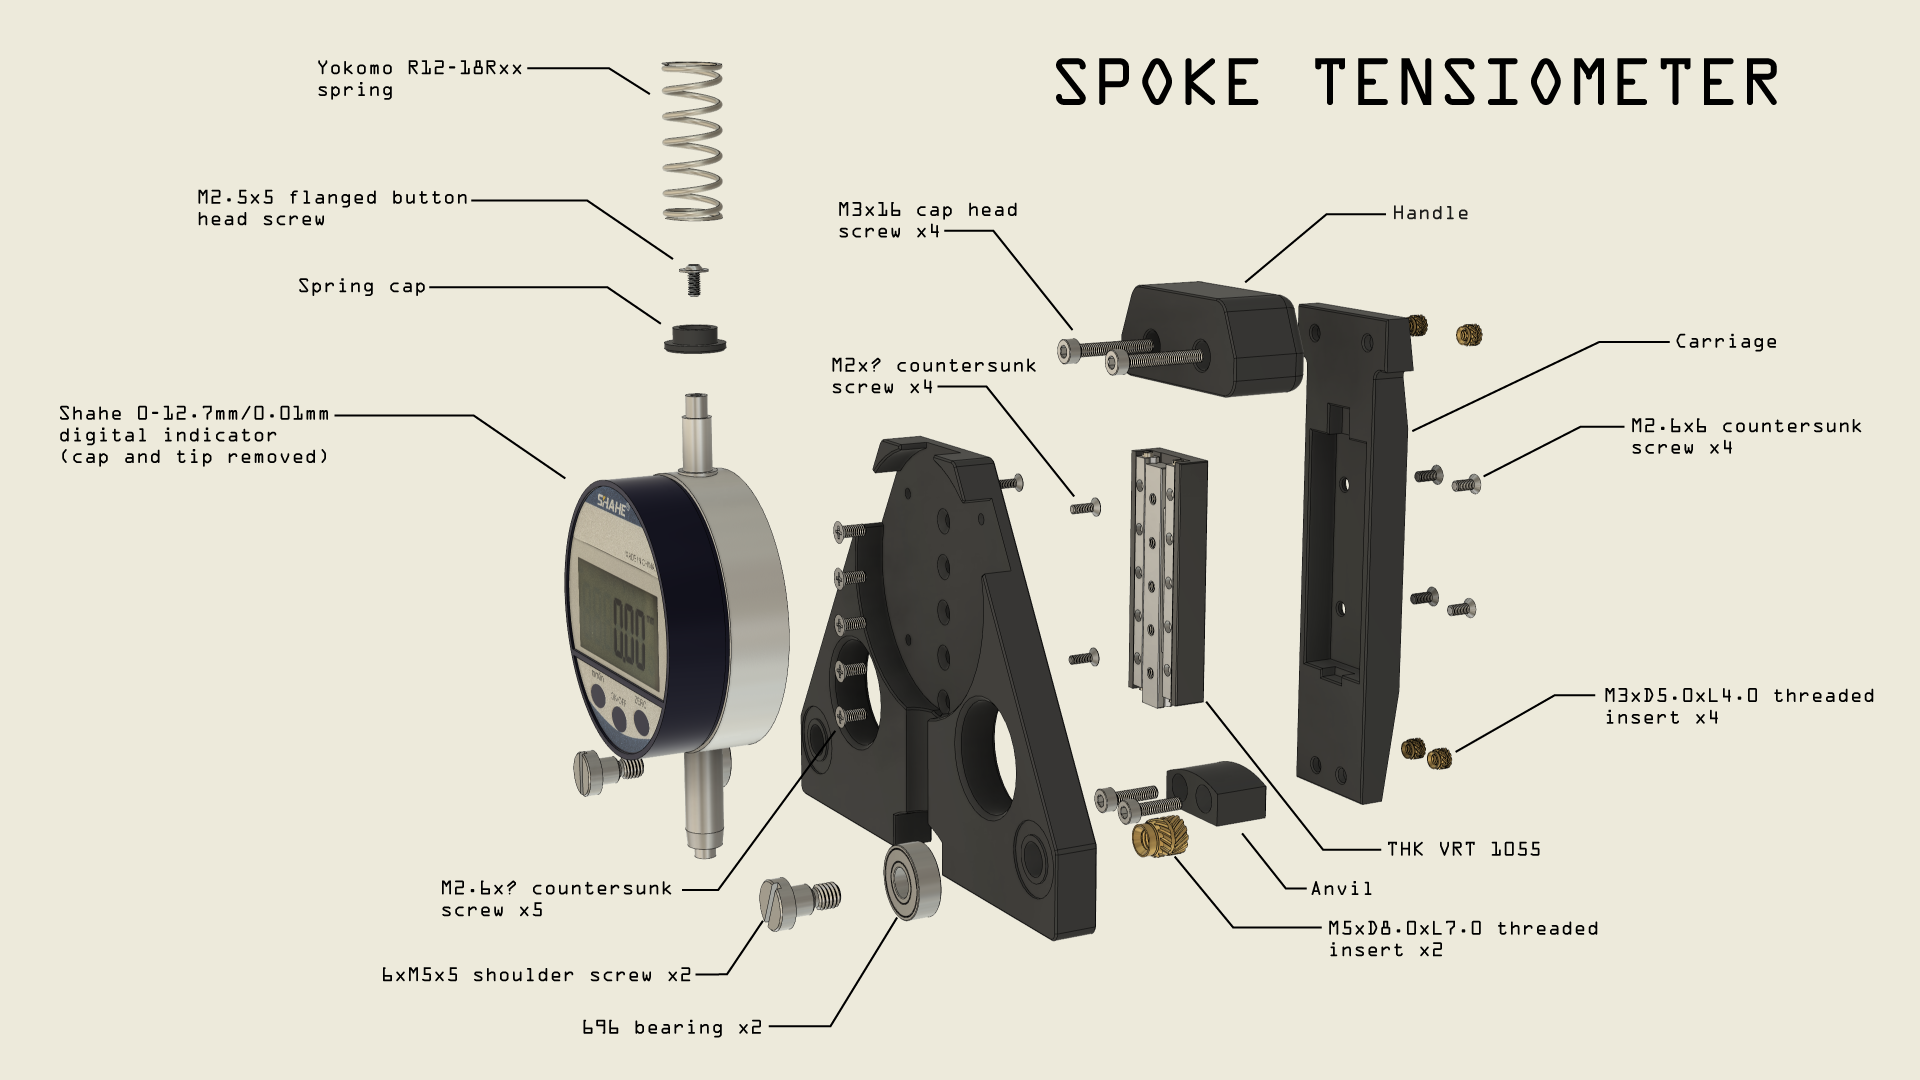
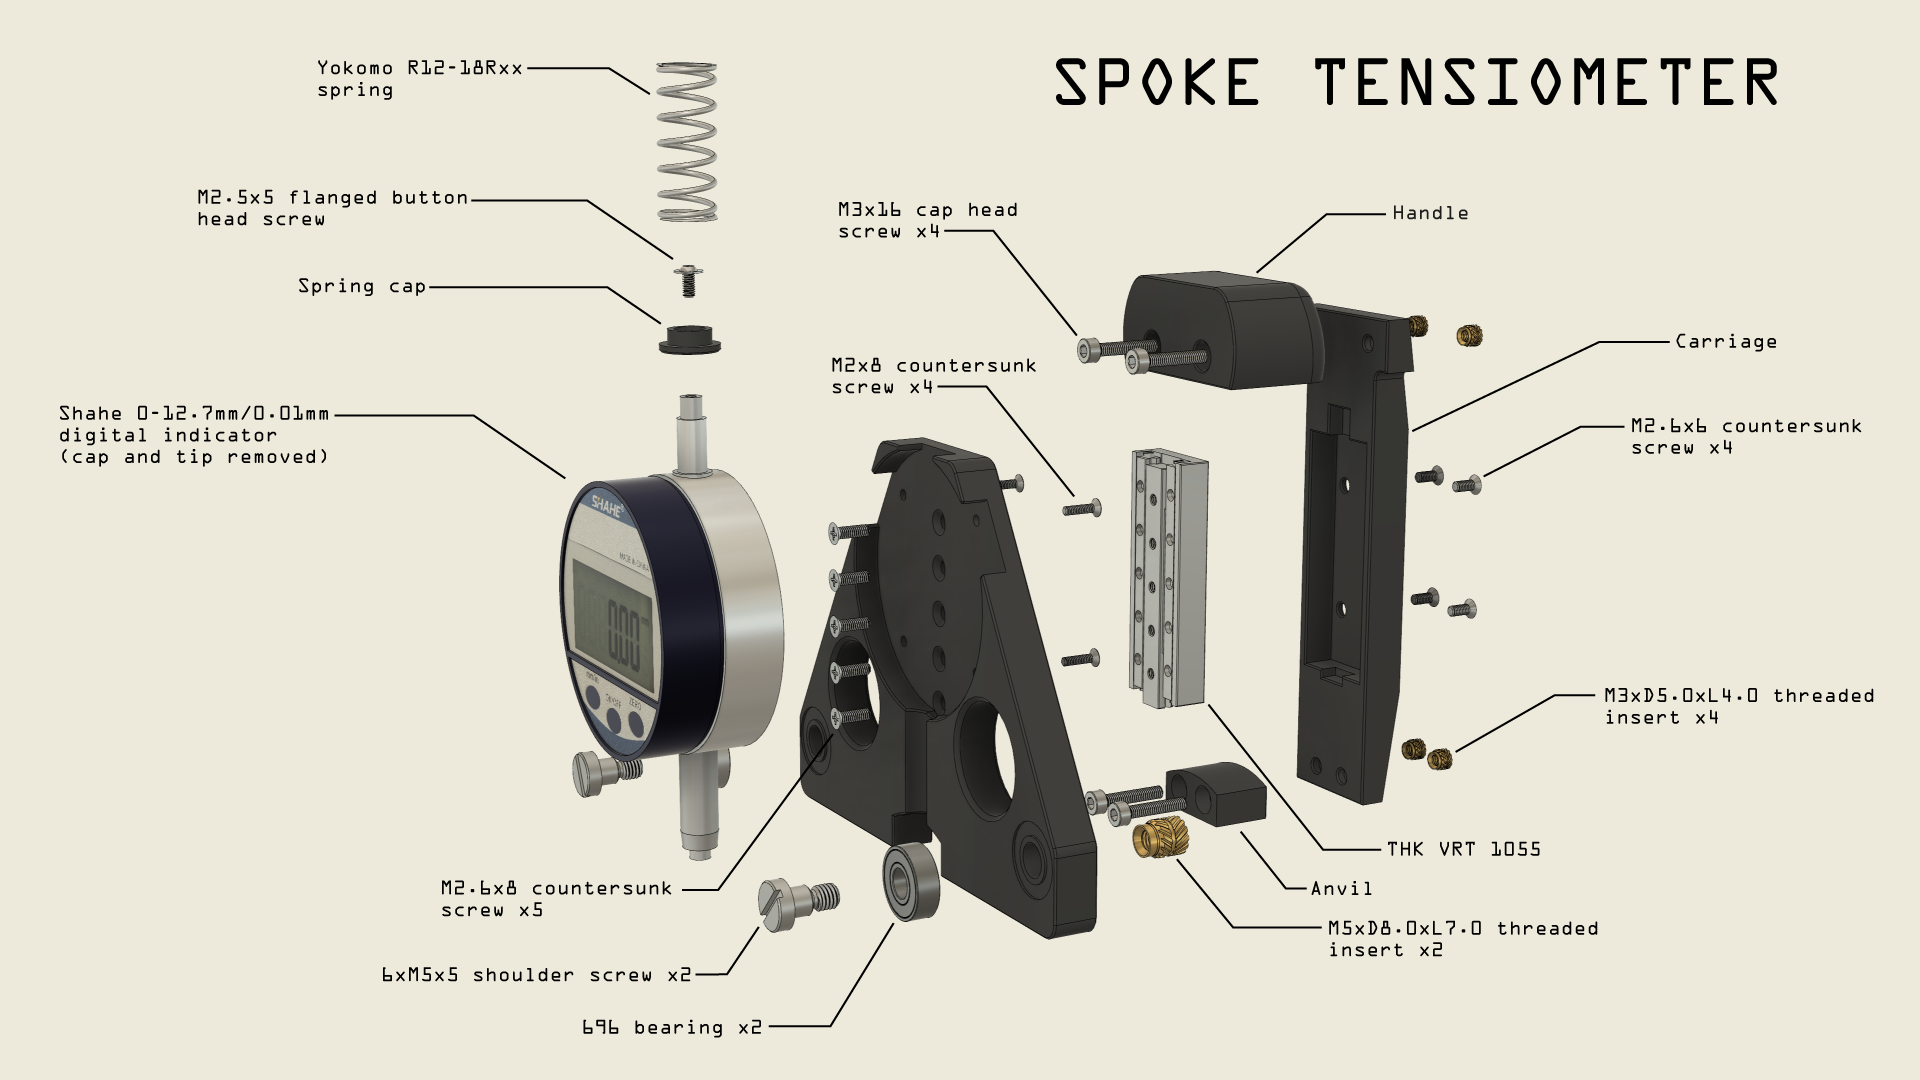
Updated images and screw dims

diff --git a/3D printed spoke tensiometer/README.md b/3D printed spoke tensiometer/README.md
@@ -13,10 +13,11 @@ This is a work in progress.
 * Motion:
 	* THK VRT 1055 cross-roller table (https://www.ebay.co.uk/itm/185530610857)
 * Fasteners:
-	* M2x? phillips countersunk screw x4 (https://www.aliexpress.com/item/32869347610.html)
+	* M2x8 phillips countersunk screw x4 (https://www.aliexpress.com/item/32869347610.html)
 	* M2.5x5 socket flanged button screw x1 (https://www.ebay.co.uk/itm/175312432319)
-	* M2.6x? phillips countersunk screw x9 (https://www.aliexpress.com/item/4001066920056.html)
-	* M3x? socket cap head screw x4
+	* M2.6x6 phillips countersunk screw x4 (https://www.aliexpress.com/item/4001066920056.html)
+	* M2.6x8 phillips countersunk screw x5 (https://www.aliexpress.com/item/4001066920056.html)
+	* M3x16 socket cap head screw x4
 	* M5xD6xL5 shoulder screw x2 (https://www.aliexpress.com/item/1005004367176439.html)
 	* M3xD5.0xL4.0 threaded inserts x4 (https://www.aliexpress.com/item/4000761483243.html)
 	* M5xD8.0xL9.0 threaded inserts x2 (https://www.aliexpress.com/item/4000232990523.html)
@@ -35,7 +36,7 @@ This is a work in progress.
 		* outside diameter: 11.9mm
 		* free length: 30.1mm
 		* ends: Squared and ground
-		* rate: approx 2N/mm
+		* spring rate: approx 2N/mm
 	* Other Yokomo springs with the same dimensions
 		* R12-18RSS - soft
 		* R12-18RSM - medium
@@ -47,7 +48,7 @@ This is a work in progress.
 		* shoulder diameter: 6mm
 		* shoulder length: 5mm
 		* thread: M5
-	* Ultra-low head shoulder screws are an option e.g. https://www.wdscomponents.com/en-gb/ultra-low-head-stainless-steel-shoulder-bolts-wds-887/c-526/p-47459/v-47478, https://www.mcmaster.com/screws/shoulder-screws-4/system-of-measurement~metric/shoulder-length~5-mm/thread-size~m5/socket-head-profile~ultra-low/
+	* ultra-low head shoulder screws are an option from, for example: https://www.wdscomponents.com/en-gb/ultra-low-head-stainless-steel-shoulder-bolts-wds-887/c-526/p-47459/v-47478 and https://www.mcmaster.com/screws/shoulder-screws-4/system-of-measurement~metric/shoulder-length~5-mm/thread-size~m5/socket-head-profile~ultra-low/
 	* M2.6 screws for the cross-roller table:
 		* McMaster-Carr has a few options https://www.mcmaster.com/screws/system-of-measurement~metric/thread-size~m2-6/
 	* M2.5 flanged screw:
